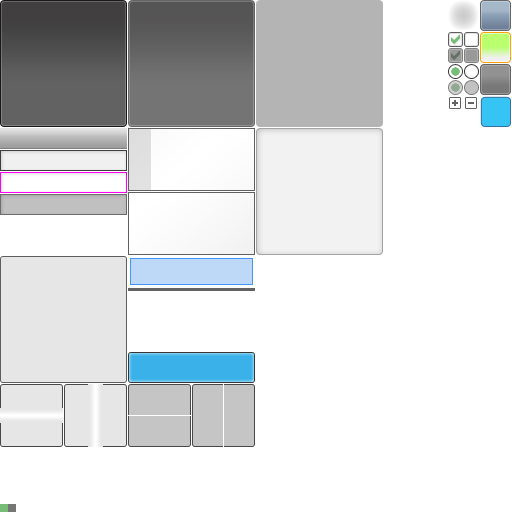
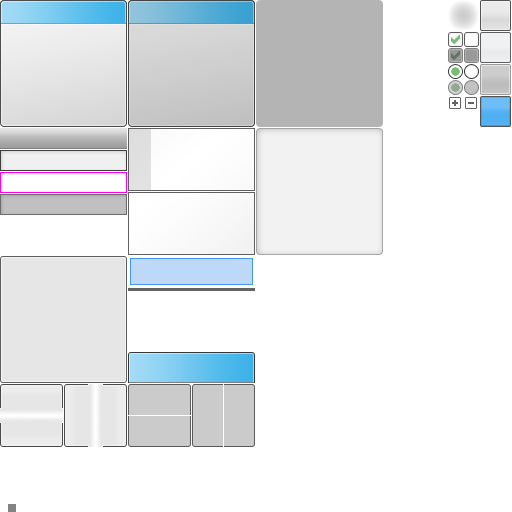
Cleaned up skin. Back to normal now.
git-svn-id: http://gwen.googlecode.com/svn/trunk/trunk@76 82b74e7c-beea-4a93-d681-cf472943600a

diff --git a/gwen/include/Gwen/Skins/TexturedBase.h b/gwen/include/Gwen/Skins/TexturedBase.h
@@ -17,14 +17,9 @@ namespace Gwen
 			public:
 
 				Gwen::Color m_colBorderColor;
-				Gwen::Color m_colControlOutlineLight;
-				Gwen::Color m_colControlOutlineLighter;
 				Gwen::Color m_colBG; 
 				Gwen::Color m_colBGDark;
-				Gwen::Color m_colControl;
-				Gwen::Color m_colControlBorderHighlight;
 				Gwen::Color m_colControlDarker;
-				Gwen::Color m_colControlOutlineNormal;
 				Gwen::Color m_colControlBright;
 				Gwen::Color m_colControlDark;
 				Gwen::Color m_colHighlightBG;
@@ -73,14 +68,9 @@ namespace Gwen
 					m_colBG						= Gwen::Color( 248, 248, 248, 255 );
 					m_colBGDark					= Gwen::Color( 235, 235, 235, 255 );
 
-					m_colControl				= Gwen::Color( 240, 240, 240, 255 );
 					m_colControlBright			= Gwen::Color( 255, 255, 255, 255 );
 					m_colControlDark			= Gwen::Color( 214, 214, 214, 255 );
 					m_colControlDarker			= Gwen::Color( 180, 180, 180, 255 );
-
-					m_colControlOutlineNormal	= Gwen::Color( 112, 112, 112, 255 );
-					m_colControlOutlineLight	= Gwen::Color( 144, 144, 144, 255 );
-					m_colControlOutlineLighter	= Gwen::Color( 210, 210, 210, 255 );
 
 					m_colHighlightBG			= Gwen::Color( 192, 221, 252, 255 );
 					m_colHighlightBorder		= Gwen::Color(  51, 153, 255, 255 );
@@ -549,7 +539,7 @@ namespace Gwen
 						GetRender()->DrawFilledRect( Gwen::Rect( 0, rect.y, iWidth, rect.h ) );
 					}
 
-					GetRender()->SetDrawColor( m_colControlOutlineLighter );
+					//GetRender()->SetDrawColor( m_colControlOutlineLighter );
 
 					GetRender()->DrawFilledRect( Gwen::Rect( iWidth, rect.y, 1, rect.h ) );
 
@@ -566,7 +556,7 @@ namespace Gwen
 					
 					Gwen::Rect rect = control->GetRenderBounds();
 
-					GetRender()->SetDrawColor( m_colControlOutlineLighter );
+					//GetRender()->SetDrawColor( m_colControlOutlineLighter );
 
 					GetRender()->DrawFilledRect( Gwen::Rect( rect.x, rect.y, BorderLeft, rect.h ) );
 					GetRender()->DrawFilledRect( Gwen::Rect( rect.x + BorderLeft, rect.y, rect.w - BorderLeft, BorderTop ) );

diff --git a/gwen/UnitTest/UnitTest.cpp b/gwen/UnitTest/UnitTest.cpp
@@ -24,6 +24,7 @@ Gwen::Controls::TabButton* pButton = NULL;
 GWEN_CONTROL_CONSTRUCTOR( UnitTest )
 {
 	Dock( Pos::Fill );
+	SetSize( 1024, 768 );
 
 	m_TextOutput = new Controls::ListBox( GetRight() );
 	pButton = GetRight()->GetTabControl()->AddPage( "Output", m_TextOutput );
@@ -66,13 +67,13 @@ GWEN_CONTROL_CONSTRUCTOR( UnitTest )
 	{
 		Controls::WindowControl* pWindow = new Controls::WindowControl( this );
 		pWindow->SetSize( 200, 200 );
-		pWindow->SetPos( 20, 20 );
+		pWindow->SetPos( 600, 130 );
 	}
 
 	{
 		Controls::WindowControl* pWindow = new Controls::WindowControl( this );
-		pWindow->SetSize( 100, 100 );
-		pWindow->SetPos( 100, 10 );
+		pWindow->SetSize( 200, 200 );
+		pWindow->SetPos( 500, 100 );
 	}
 }
 

diff --git a/gwen/src/Controls/WindowControl.cpp b/gwen/src/Controls/WindowControl.cpp
@@ -26,9 +26,10 @@ GWEN_CONTROL_CONSTRUCTOR( WindowControl )
 	m_TitleBar->SetTarget( this );
 
 	m_Title = new Label( m_TitleBar );
-	m_Title->SetAlignment( Pos::Center );
+	m_Title->SetAlignment( Pos::Left );
 	m_Title->SetText( "Window" );
 	m_Title->Dock( Pos::Fill );
+	m_Title->SetPadding( Padding( 8, 0, 0, 0 ) );
 	m_Title->SetTextColor( GetSkin()->Colors.Window.TitleInactive );
 
 	m_CloseButton = new Button( m_TitleBar );
